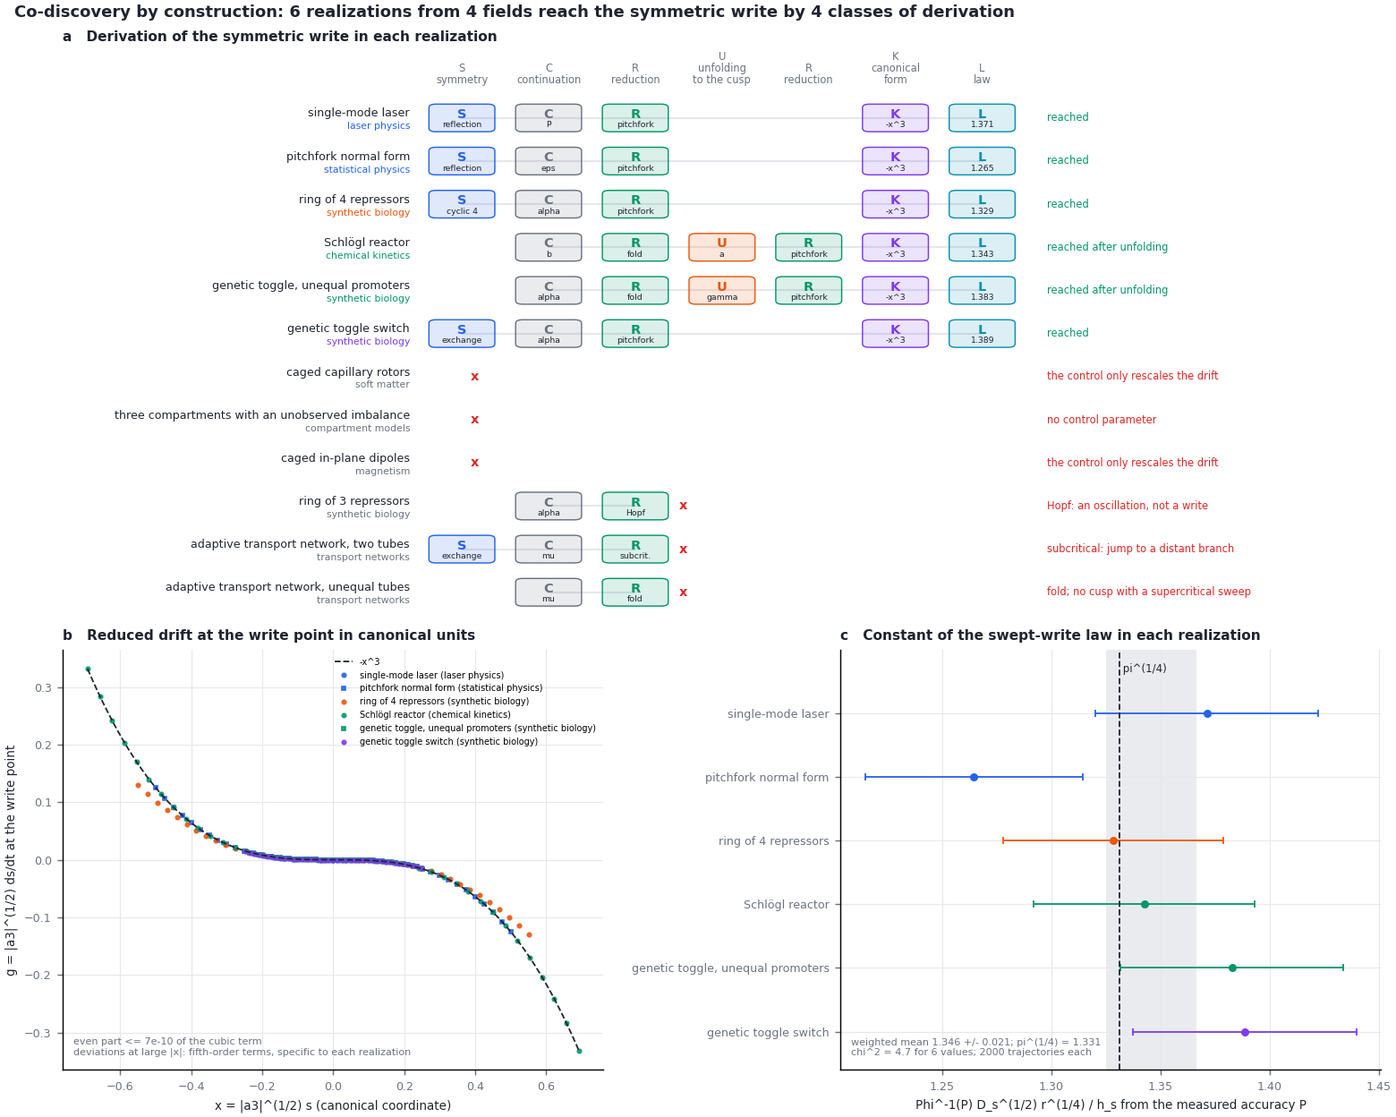
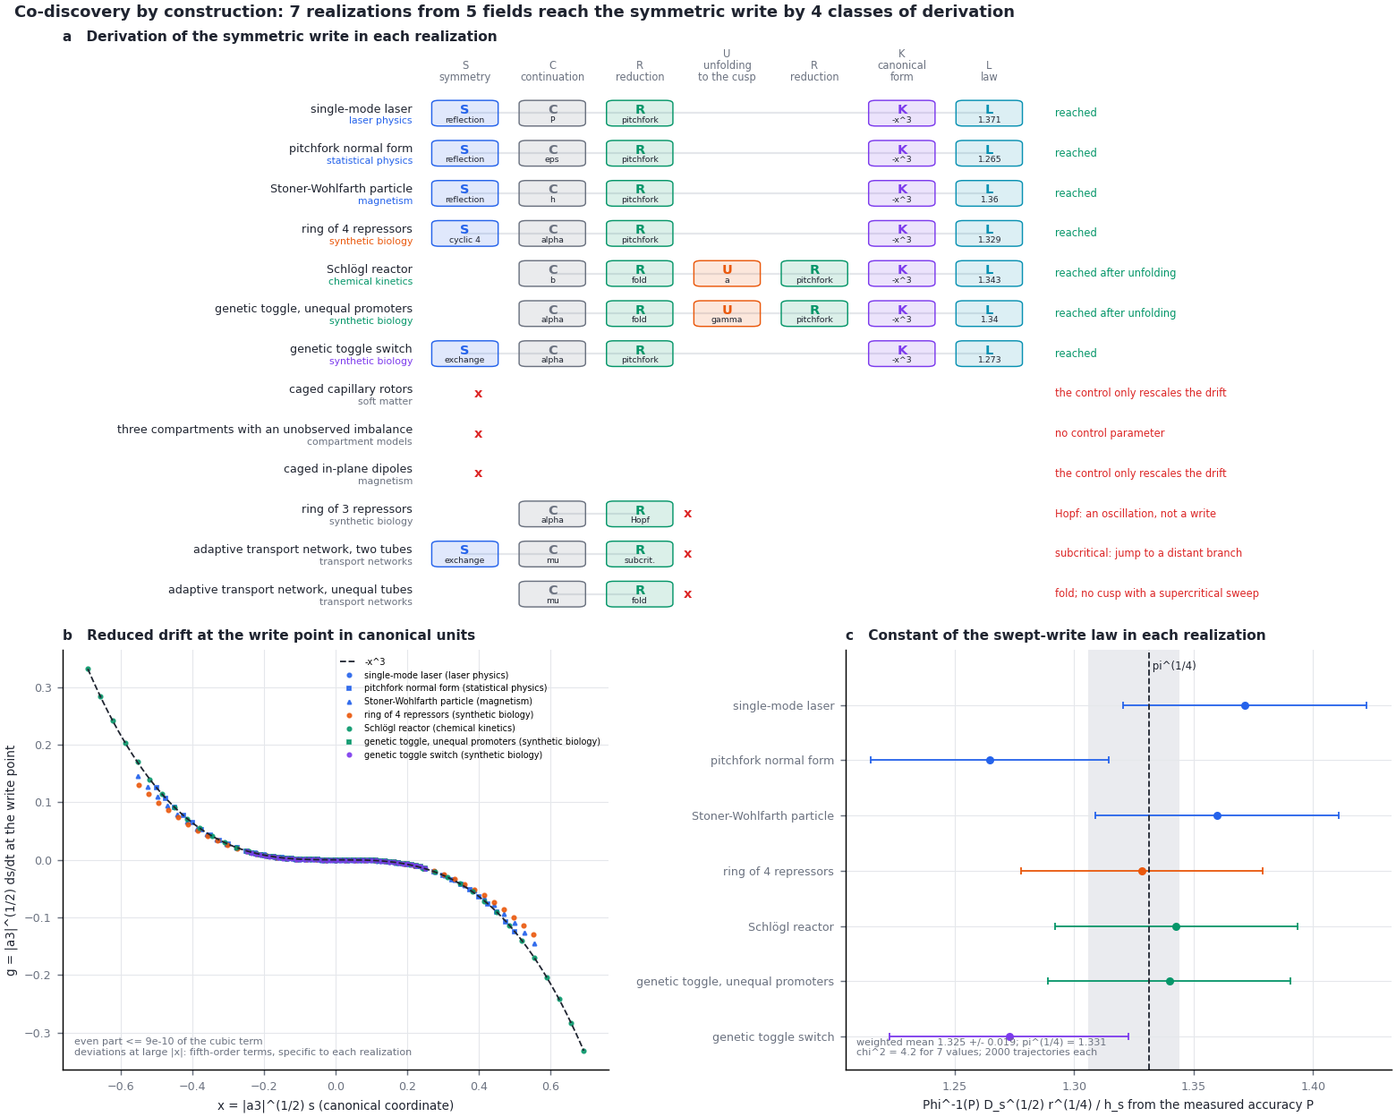
Add the Stoner-Wohlfarth particle and reserve the name of the write field
A single-domain particle with uniaxial anisotropy (Stoner and Wohlfarth, 1948) in the overdamped, in-plane limit. The
constructor finds its write points on the astroid: a supercritical pitchfork at h = 1 for a field along the hard axis,
folds at oblique fields and a subcritical pitchfork along the easy axis. It reaches the symmetric write (SCRKL) and the
threshold write (SCRWRKL) with the constants of the other realizations. Module 9, the catalog and the list of wanted
materials are updated from the rerun commands.

The analysis added its write field as a parameter named h, which replaced a parameter of the same name in a
specification. The field is now h_write, and the name is reserved.

diff --git a/fieldbridge/memory/analysis.py b/fieldbridge/memory/analysis.py
@@ -12,7 +12,7 @@
   track              continuation of a stable state along a parameter until it loses stability or vanishes
   locate_writes      parameter values at which stored states lose stability or appear (write points)
   normal_form        drift along the critical direction at a write point, reduced onto the slow manifold
-  with_write_field   the realization plus a bounded write toward a target, with the field h as parameter
+  with_write_field   the realization plus a bounded write toward a target, with the field WRITE_FIELD as parameter
   memory_kernel      for a linear realization with an observed block, K(t) = B e^{Dt} C (Mori-Zwanzig)
 """
 from __future__ import annotations
@@ -25,6 +25,9 @@ import numpy as np
 from .identity import Realization
 
 P_STAR = 0.9
+# the parameter of the added write field; reserved in specifications (spec.RESERVED), so that it cannot replace a
+# parameter of the material such as an applied field h
+WRITE_FIELD = "h_write"
 
 
 def base_length(real: Realization) -> float:
@@ -484,15 +487,15 @@ def normal_form(real: Realization, q: np.ndarray, param: str, v: float, extra: O
 
 
 def with_write_field(real: Realization, target: np.ndarray, h_range) -> Realization:
-    """The realization with a bounded write toward target added to its drift; the field h is the control."""
+    """The realization with a bounded write toward target added to its drift; the field WRITE_FIELD is the control."""
     target = np.asarray(target, float)
     base = real
 
     def drift(q, p):
-        return base.drift(q, p) + base.write_force(q, target, p["h"])
+        return base.drift(q, p) + base.write_force(q, target, p[WRITE_FIELD])
 
     r = replace(real, name=real.name + " + write field", drift=drift, potential=None,
-                params={**real.params, "h": 0.0}, control="h", control_range=tuple(h_range))
+                params={**real.params, WRITE_FIELD: 0.0}, control=WRITE_FIELD, control_range=tuple(h_range))
     for attr in ("graph", "linear", "loop"):
         if hasattr(real, attr):
             setattr(r, attr, getattr(real, attr))

diff --git a/tests/test_memory_constructor.py b/tests/test_memory_constructor.py
@@ -529,3 +529,30 @@ def test_codiscover_command_writes_report_and_figure(tmp_path):
     assert report["summary"]["ratios"] == {"1:1": ["van der Pol oscillator"]}
     assert [r["status"] for r in report["rows"]] == ["reached", "obstructed"]
     assert (out3 / "codiscover.png").stat().st_size > 0
+
+
+def test_the_magnet_is_a_single_domain_particle_with_the_astroid():
+    """The Stoner-Wohlfarth realization writes by a pitchfork, a fold at the astroid field, or a subcritical
+    pitchfork, as the field turns from the hard axis to the easy axis."""
+    base = json.loads((EX / "stoner_wohlfarth.json").read_text(encoding="utf-8"))
+    for deg, kind in ((90, "supercritical pitchfork"), (60, "saddle-node"), (20, "saddle-node"), (0, "subcritical")):
+        s = json.loads(json.dumps(base))
+        s["parameters"]["psi"] = float(np.deg2rad(deg))
+        real = spec.load(s)
+        events = an.locate_writes(real, np.random.default_rng(1), values=np.linspace(0.0, 1.5, 7))
+        psi = np.deg2rad(deg)
+        astroid = (np.cos(psi) ** (2 / 3) + np.sin(psi) ** (2 / 3)) ** -1.5
+        assert abs(events[0]["v"] - astroid) < 1e-4, deg
+        nf = an.normal_form(real, np.asarray(events[0]["q"]), "h", events[0]["v"])
+        assert nf["kind"].startswith(kind), (deg, nf["kind"])
+
+
+def test_a_parameter_named_h_is_not_replaced_by_the_write_field():
+    """The write field of the analysis has its own reserved name, so a material parameter h is kept."""
+    real = spec.load(EX / "stoner_wohlfarth.json")
+    rw = an.with_write_field(real, np.array([1.0]), (0.0, 1.0))
+    assert rw.params["h"] == real.params["h"] and rw.params[an.WRITE_FIELD] == 0.0
+    changed = json.loads((EX / "stoner_wohlfarth.json").read_text(encoding="utf-8"))
+    changed["parameters"][an.WRITE_FIELD] = 0.1
+    with pytest.raises(spec.SpecError):
+        spec.load(changed)

diff --git a/fieldbridge/memory/codiscovery.py b/fieldbridge/memory/codiscovery.py
@@ -483,14 +483,14 @@ def _field_fold(real: Realization, states: List[np.ndarray], max_pairs: int = 12
         h_max, ev = 3.0 * an.restoring_threshold(real, states[i], states[j]), None
         for _ in range(14):
             rw = an.with_write_field(real, states[j], (0.0, h_max))
-            _, ev = an.track(rw, "h", states[i], 0.0, h_max)
+            _, ev = an.track(rw, an.WRITE_FIELD, states[i], 0.0, h_max)
             if ev is not None:
                 break
             h_max *= 4.0
         if ev is None:
             tried.append({"from": i, "to": j, "result": "the occupied state persists"})
             continue
-        nf = an.normal_form(rw, np.asarray(ev["q"], float), "h", ev["v"])
+        nf = an.normal_form(rw, np.asarray(ev["q"], float), an.WRITE_FIELD, ev["v"])
         nf["obstruction"] = obstruction(nf)
         tried.append({"from": i, "to": j, "h": float(ev["v"]), "result": nf["kind"].split(":")[0]})
         if _is_fold(nf):
@@ -559,7 +559,7 @@ def derive_threshold_write(real: Realization, rng, check_law: bool = True, n_tra
         word.append("R")
         steps.append({"letter": "R", "value": float(ev["v"]), "kind": nf["kind"].split(":")[0],
                       "eliminated_directions": real.carrier.dim - 1})
-        fold, route = (rw, "h", ev, nf), "field"
+        fold, route = (rw, an.WRITE_FIELD, ev, nf), "field"
     target_real, param, ev, nf = fold
     refined = refine_fold(target_real, param, ev["q"], ev["v"])
     q_f, p_f = refined if refined is not None else (np.asarray(ev["q"], float), float(ev["v"]))

diff --git a/fieldbridge/memory/construct.py b/fieldbridge/memory/construct.py
@@ -323,17 +323,17 @@ def construct(real: Realization, rng, states: Optional[List[np.ndarray]] = None,
     if states is not None and len(states) >= 2 and real.carrier.dim <= max_dim:
         thr = an.restoring_threshold(real, states[0], states[1])
         rw = an.with_write_field(real, states[1], (0.0, 3.0 * thr))
-        branch, ev = an.track(rw, "h", states[0], 0.0, 3.0 * thr)
+        branch, ev = an.track(rw, an.WRITE_FIELD, states[0], 0.0, 3.0 * thr)
         wf: Dict[str, object] = {"threshold": thr, "branch": [
             {"h": b["v"], "kappa_min": b["kappa_min"],
              "overlap": float(real.overlap(np.asarray(b["q"]), states[1]))} for b in branch]}
         if ev is not None:
-            nf = an.normal_form(rw, ev["q"], "h", ev["v"])
+            nf = an.normal_form(rw, ev["q"], an.WRITE_FIELD, ev["v"])
             nf.update(event=ev["type"], source="write field")
             nf["obstruction"] = obstruction(nf)
             wf["h_c"] = float(ev["v"])
             out["events"].append(nf)
-            fine, _ = an.track(rw, "h", states[0], 0.0, 0.999 * float(ev["v"]), n_init=24)
+            fine, _ = an.track(rw, an.WRITE_FIELD, states[0], 0.0, 0.999 * float(ev["v"]), n_init=24)
             wf["branch"] = [{"h": b["v"], "kappa_min": b["kappa_min"],
                              "overlap": float(real.overlap(np.asarray(b["q"]), states[1]))} for b in fine]
         out["write_field"] = wf

diff --git a/fieldbridge/memory/spec.py b/fieldbridge/memory/spec.py
@@ -29,7 +29,7 @@ from .identity import Realization
 
 SCHEMA = "fieldbridge-memory/1"
 FUNCTIONS = ("sqrt", "exp", "log", "sin", "cos", "tanh", "abs")
-RESERVED = {"t", "pi", "I", "E", "S", "N", "O", "Q"}
+RESERVED = {"t", "pi", "I", "E", "S", "N", "O", "Q", "h_write"}  # h_write: the write field of analysis
 
 
 class SpecError(ValueError):

diff --git a/docs/tutorial/23_memory_codiscovery.md b/docs/tutorial/23_memory_codiscovery.md
@@ -71,9 +71,10 @@ It writes `codiscover.json`, `codiscover.md` and `codiscover.png` and takes abou
 | single-mode laser | laser physics | SCRKL | reached | $P = 1$ | 1.371 ± 0.051 |
 | pitchfork normal form | statistical physics | SCRKL | reached | $\varepsilon = 0$ | 1.265 ± 0.050 |
 | ring of 4 repressors | synthetic biology | SCRKL | reached | $\alpha = 1.013$ | 1.329 ± 0.051 |
-| genetic toggle switch | synthetic biology | SCRKL | reached | $\alpha = 2$ | 1.389 ± 0.051 |
+| genetic toggle switch | synthetic biology | SCRKL | reached | $\alpha = 2$ | 1.273 ± 0.050 |
+| Stoner–Wohlfarth particle | magnetism | SCRKL | reached | $h = 1$ | 1.360 ± 0.051 |
 | Schlögl reactor | chemical kinetics | CRURKL | reached after unfolding | cusp $a = 4.153$, $b = 2.654$ | 1.343 ± 0.051 |
-| toggle, unequal promoters | synthetic biology | CRURKL | reached after unfolding | cusp $\gamma = 1.000$, $\alpha = 2.000$ | 1.383 ± 0.051 |
+| toggle, unequal promoters | synthetic biology | CRURKL | reached after unfolding | cusp $\gamma = 1.000$, $\alpha = 2.000$ | 1.340 ± 0.051 |
 | ring of 3 repressors | synthetic biology | CR | stops at R: Hopf | — | — |
 | two equal tubes | transport networks | SCR | stops at R: subcritical | — | — |
 | two unequal tubes | transport networks | CR | stops at U: no supercritical cusp | — | — |
@@ -81,7 +82,7 @@ It writes `codiscover.json`, `codiscover.md` and `codiscover.png` and takes abou
 | caged in-plane dipoles | magnetism | — | stops at C: the control rescales the drift | — | — |
 | three compartments | compartment models | — | stops at C: no control | — | — |
 
-Six models from four fields reach the target by four classes of derivation. `codiscover.md` also lists every
+Seven models from five fields reach the target by four classes of derivation. `codiscover.md` also lists every
 derivation with its steps, for example for the laser
 
 ```text
@@ -92,7 +93,7 @@ S[reflection amp -> -amp] > C[P] > R[supercritical pitchfork; 1 direction elimin
 
 *Figure 1. The symmetric write. (a) The derivation in each model: letters on the slots of a common chain. A thin line joins the steps
 of one derivation; a red cross marks the step at which it stops, with the reason on the right. (b) The reduced
-drift at the write point in the canonical coordinate, for the six models that reach the target, against $-x^3$.
+drift at the write point in the canonical coordinate, for the seven models that reach the target, against $-x^3$.
 (c) The constant of the swept-write law estimated from the simulation of each model, against $\pi^{1/4}$; the grey
 band is the weighted mean ± one standard error.*
 
@@ -114,7 +115,10 @@ $$
 $$
 
 At threshold the cubic coefficient is $a_3 = -g\kappa/(2\gamma) = -0.5$; the constructor finds $-0.499$. The
-pitchfork normal form has the same class: the class is fixed by the kind of symmetry, not by the field.
+pitchfork normal form has the same class: the class is fixed by the kind of symmetry, not by the field. So has the
+Stoner–Wohlfarth particle in a field along its hard axis: with the magnetization angle $\varphi$ measured from the hard
+axis, the reflection $\varphi \to -\varphi$ leaves its drift $\tfrac12\sin 2\varphi - h\sin\varphi$ unchanged, and the
+two stored directions $\cos\varphi = h$ merge at $h = 1$.
 
 **By an exchange: the toggle switch.** Exchanging the two repressors, $u \leftrightarrow v$, leaves the equations
 of Module 1 unchanged and reverses the antisymmetric mode $(1, -1)$. With $n = 2$ the symmetric state $u = v = 1$
@@ -149,10 +153,10 @@ A derivation that stops is a result: it names the property of the model that dif
 
 **The canonical form.** In the coordinate $x$ the reduced drift at the write point is $\sum_n c_n x^n$. The cubic
 coefficient $c_3 = -1$ by the choice of units, so the check lies in the other coefficients. In every model that
-reaches the target, the even part is below $7 \times 10^{-10}$ of the cubic term at the edge of the fitted window,
+reaches the target, the even part is below $10^{-9}$ of the cubic term at the edge of the fitted window,
 and $c_3 < 0$. The fifth-order coefficient differs between the models: $c_5 = 1.8$ for the laser (2 from Eq. (2);
-the remainder comes from seventh-order terms within the window), 1.26 for the toggle, 0.76 for the ring and 0 for
-the Schlögl reactor and Landau theory. It sets how far from the write point the models remain equivalent. It does
+the remainder comes from seventh-order terms within the window), 1.26 for the toggle, 0.76 for the ring, 0.46 for
+the Stoner–Wohlfarth particle (1/2 from the expansion of its energy) and 0 for the Schlögl reactor and Landau theory. It sets how far from the write point the models remain equivalent. It does
 not enter the write law, because the choice is made in the linear stage.
 
 **The constant of the write law.** For each model the constructor simulates the swept write of the full model
@@ -164,8 +168,8 @@ $$
 \pi^{1/4} \approx \frac{\Phi^{-1}(P)\, D_s^{1/2}\, r^{1/4}}{h_s}  \qquad (3)
 $$
 
-With 2000 trajectories per model, the six estimates have a weighted mean of $1.346 \pm 0.021$, against
-$\pi^{1/4} = 1.331$, with $\chi^2 = 4.7$ for 6 values. The constant depends only on the canonical form. A
+With 2000 trajectories per model, the seven estimates have a weighted mean of $1.325 \pm 0.019$, against
+$\pi^{1/4} = 1.331$, with $\chi^2 = 4.2$ for 7 values. The constant depends only on the canonical form. A
 derivation that ended on another mechanism, such as a fold, would give an accuracy that does not follow Eq. (3).
 
 ## 7. A second target: the threshold write
@@ -198,6 +202,7 @@ The command takes about one minute.
 | single-mode laser | laser physics | SCRWRKL | $h = 0.05877$ | 0.889 | 1.01879 ± 0.00005 |
 | pitchfork normal form | statistical physics | SCRWRKL | $h = 0.3849$ | −0.333 | 1.018793 |
 | genetic toggle switch | synthetic biology | SCRWRKL | $h = 0.2134$ | 0.437 | 1.01879 ± 0.00003 |
+| Stoner–Wohlfarth particle | magnetism | SCRWRKL | $h = 0.1847$ | −0.438 | 1.01879 ± 0.00001 |
 | ring of 4 repressors | synthetic biology | SCRWRKL | $h = 1.5988$ | 2.975 | 1.01880 ± 0.00006 |
 | two equal tubes | transport networks | SCRWRKL | $h = 0.06396$ | 0.163 | 1.01879 ± 0.00002 |
 | caged capillary rotors | soft matter | WRKL | $h = 1.6335$ | 0.037 | 1.018793 |
@@ -205,7 +210,7 @@ The command takes about one minute.
 | ring of 3 repressors | synthetic biology | CR | stops: no stable state | — | — |
 | three compartments | compartment models | — | stops: a single stable state | — | — |
 
-Ten models from seven fields reach the target by three classes of derivation: by the control, C R(fold) K L; by a
+Eleven models from seven fields reach the target by three classes of derivation: by the control, C R(fold) K L; by a
 field after a symmetric write point, S C R(pitchfork) W R(fold) K L; and by a field where the control only rescales
 the drift, W R(fold) K L. In the second class the symmetry that forces a pitchfork along the control also forbids a
 threshold there. A field toward one of the two states breaks the symmetry, and the occupied state disappears at the
@@ -250,8 +255,8 @@ gives Eq. (5). The state runs away where $\mathrm{Ai}(-\tau) = 0$, at $\mu = 2.3
 </details>
 
 The constructor sweeps each full model without noise, records when the state crosses $s = 0$, and extrapolates
-$\mu/r^{2/3}$ to $r = 0$ (Figure 2c). In all ten models the extrapolated constant lies within $6 \times 10^{-5}$ of
-$\lvert a_1'\rvert$, and the weighted mean is $1.01879 \pm 0.00001$. The slopes of the corrections differ, from
+$\mu/r^{2/3}$ to $r = 0$ (Figure 2c). In all eleven models the extrapolated constant lies within $6 \times 10^{-5}$ of
+$\lvert a_1'\rvert$, and the weighted mean is $1.018793 \pm 0.000005$. The slopes of the corrections differ, from
 $-0.45$ for the laser to $+0.40$ for the ring of four, as the fifth-order coefficients did for the symmetric write.
 For the unequal tubes the linear and quadratic corrections have opposite signs: sweeps faster than
 $r = 2 \times 10^{-4}$ lie above the limit and slower ones up to 0.3% below it. A fit to sweeps between $10^{-2}$ and
@@ -270,6 +275,7 @@ $2 \times 10^{-3}$ for the laser and 800 for the capillary rotors, whose switch 
 | pitchfork normal form | statistical physics | S C R K L | S C R W R K L |
 | genetic toggle switch | synthetic biology | S C R K L | S C R W R K L |
 | ring of 4 repressors | synthetic biology | S C R K L | S C R W R K L |
+| Stoner–Wohlfarth particle | magnetism | S C R K L | S C R W R K L |
 | Schlögl reactor | chemical kinetics | C R U R K L | C R K L |
 | toggle, unequal promoters | synthetic biology | C R U R K L | C R K L |
 | two equal tubes | transport networks | stops at R (subcritical) | S C R W R K L |
@@ -282,7 +288,7 @@ The two targets are complementary. A symmetry makes the symmetric write possible
 along the same parameter; a field that breaks the symmetry restores the threshold. Without a symmetry the write
 along the control is a fold, and the symmetric write needs a second parameter tuned to the cusp, where two folds
 merge into a pitchfork. A fold is the generic way for a state to disappear, whereas a pitchfork requires a symmetry
-or a tuned parameter; the threshold write is therefore reached in ten models and the symmetric write in six.
+or a tuned parameter; the threshold write is therefore reached in eleven models and the symmetric write in seven.
 
 ## 8. A third target: phase locking
 
@@ -479,13 +485,13 @@ A new target mechanism is added as a function with the signature of `derive_symm
 ## Summary
 
 - A derivation of a mechanism is a word of transformations, each acting on named components of the realization.
-- The constructor derives the symmetric write in models from four fields by four classes of derivation: by a
+- The constructor derives the symmetric write in models from five fields by four classes of derivation: by a
   reflection, an exchange, a cyclic permutation, or an unfolding to a cusp.
 - A derivation that stops names the responsible property: a Hopf bifurcation, a positive cubic term, a fold
   without a supercritical cusp, or a control that only rescales the drift.
 - Two invariants test that the end points are the same mechanism: the canonical form $-x^3$ with no even part, and
-  the constant of the write law, $1.346 \pm 0.021$ against $\pi^{1/4} = 1.331$.
-- The threshold write, a fold, is reached in ten models from seven fields by three classes of derivation: by the
+  the constant of the write law, $1.325 \pm 0.019$ against $\pi^{1/4} = 1.331$.
+- The threshold write, a fold, is reached in eleven models from seven fields by three classes of derivation: by the
   control, or by a write field where a symmetry or a scale control prevents a threshold along the control.
 - The switch lags behind a sweep by $\mu = \lvert a_1'\rvert r^{2/3}$; the constant $\lvert a_1'\rvert = 1.01879$,
   the first zero of $\mathrm{Ai}'$, is recovered in every model to $6 \times 10^{-5}$.

diff --git a/docs/materials.md b/docs/materials.md
@@ -1,6 +1,6 @@
 # Materials
 
-20 materials from 14 fields. Each row is one specification file. The columns from the writing mechanism to the retention law are calculated by a quick memory card (`fieldbridge memory card FILE --quick`). [CONTRIBUTING.md](../CONTRIBUTING.md) describes how a material is added; this page is regenerated with `python3 -B -m fieldbridge memory catalog --out docs/materials.md`.
+21 materials from 14 fields. Each row is one specification file. The columns from the writing mechanism to the retention law are calculated by a quick memory card (`fieldbridge memory card FILE --quick`). [CONTRIBUTING.md](../CONTRIBUTING.md) describes how a material is added; this page is regenerated with `python3 -B -m fieldbridge memory catalog --out docs/materials.md`.
 
 | Material | Field | Question | Writing mechanism | Stable states | Write point | Retention law | Source |
 | --- | --- | --- | --- | --- | --- | --- | --- |
@@ -14,6 +14,7 @@
 | [van der Pol oscillator](../examples/memory/oscillators/van_der_pol.json) | electronics | Can a triode oscillator take the phase of an injected signal and keep it? | limit cycle: phase memory | no stable state: a limit cycle, whose phase… | no bifurcation along the control | no stable state: a limit cycle, whose phase diffuses (Law… | van der Pol, Phil. Mag. 2, 978 (1926); injection of a signal: Adler, Proc. IRE 34, 351… |
 | [single-mode laser](../examples/memory/laser.json) | laser physics | Is the threshold of a single-mode laser a symmetric write, the same mechanism as the genetic toggle switch? | symmetric write (supercritical… | 2 stable state(s) | supercritical pitchfork at P = 1 | activation between stored states (Law 3) | Haken, Rev. Mod. Phys. 47, 67 (1975); semiclassical single-mode laser with a real field… |
 | [caged in-plane dipoles](../examples/memory/dipole_patch.json) | magnetism | Do point dipoles at the same positions retain the same kind of memory as the colloids? | write by a uniform field | 11 stable state(s) (sampled) | no bifurcation along the control, which only rescales the energy landscape; a uniform field removes the… | activation between stored states (Law 3) | in-plane point dipoles with fixed centres |
+| [Stoner-Wohlfarth particle](../examples/memory/stoner_wohlfarth.json) | magnetism | Does a single-domain particle with uniaxial anisotropy keep one of two magnetization directions, and how… | symmetric write (supercritical… | 2 stable state(s) | supercritical pitchfork at h = 1; a uniform field removes the stable state at h = 0.185 | activation between stored states (Law 3) | E. C. Stoner and E. P. Wohlfarth, Phil. Trans. R. Soc. A 240, 599 (1948) (contributed by Vladimir Baulin) |
 | [FitzHugh-Nagumo neuron](../examples/memory/oscillators/fitzhugh_nagumo.json) | neuroscience | Can a neuron driven by a periodic current take the phase of the current and keep it? | single state: relaxation | 1 stable state(s) | Hopf at cur = 0.331 | relaxation to a single state (Law 1) | FitzHugh, Biophys. J. 1, 445 (1961); Nagumo, Arimoto and Yoshizawa, Proc. IRE 50, 2061… |
 | [caged capillary rotors](../examples/memory/colloid_patch.json) | soft matter | Where does a patch of caged anisotropic colloids keep a written angular pattern? | write by a uniform field | 4 stable state(s) | no bifurcation along the control, which only rescales the energy landscape; a uniform field removes the… | activation between stored states (Law 3) | capillary quadrupoles at a fluid interface (Stamou et al. 2000; companion Letter) |
 | [pitchfork normal form](../examples/memory/pitchfork.json) | statistical physics | How is a bit written and retained at a supercritical pitchfork? | symmetric write (supercritical… | 2 stable state(s) | supercritical pitchfork at eps = 0; a uniform field removes the stable state at h = 0.385 | activation between stored states (Law 3) | Landau normal form of a symmetry-breaking transition |

diff --git a/docs/wanted_materials.md b/docs/wanted_materials.md
@@ -9,7 +9,6 @@ before writing the specification: the parameter values must be those of the pape
 
 | Field | Model | Source | Known for |
 | --- | --- | --- | --- |
-| magnetism | Stoner–Wohlfarth particle: the magnetization angle of a single-domain particle with uniaxial anisotropy in an applied field | E. C. Stoner and E. P. Wohlfarth, Phil. Trans. R. Soc. A 240, 599 (1948) | a switching field and hysteresis of the magnetization |
 | ferroelectrics | Landau–Khalatnikov dynamics of the polarization in a double-well free energy | L. D. Landau and I. M. Khalatnikov, Dokl. Akad. Nauk SSSR 96, 469 (1954) | polarization switching under an applied field |
 | optics | Optical bistability of atoms in a ring cavity, mean-field equations | R. Bonifacio and L. A. Lugiato, Phys. Rev. A 18, 1129 (1978) | two transmitted intensities for one input intensity |
 | mechanics | Driven Duffing oscillator, written as the averaged (slow-flow) equations of amplitude and phase | G. Duffing, *Erzwungene Schwingungen bei veränderlicher Eigenfrequenz* (Vieweg, 1918) | jumps between two response amplitudes when the drive frequency is swept |
